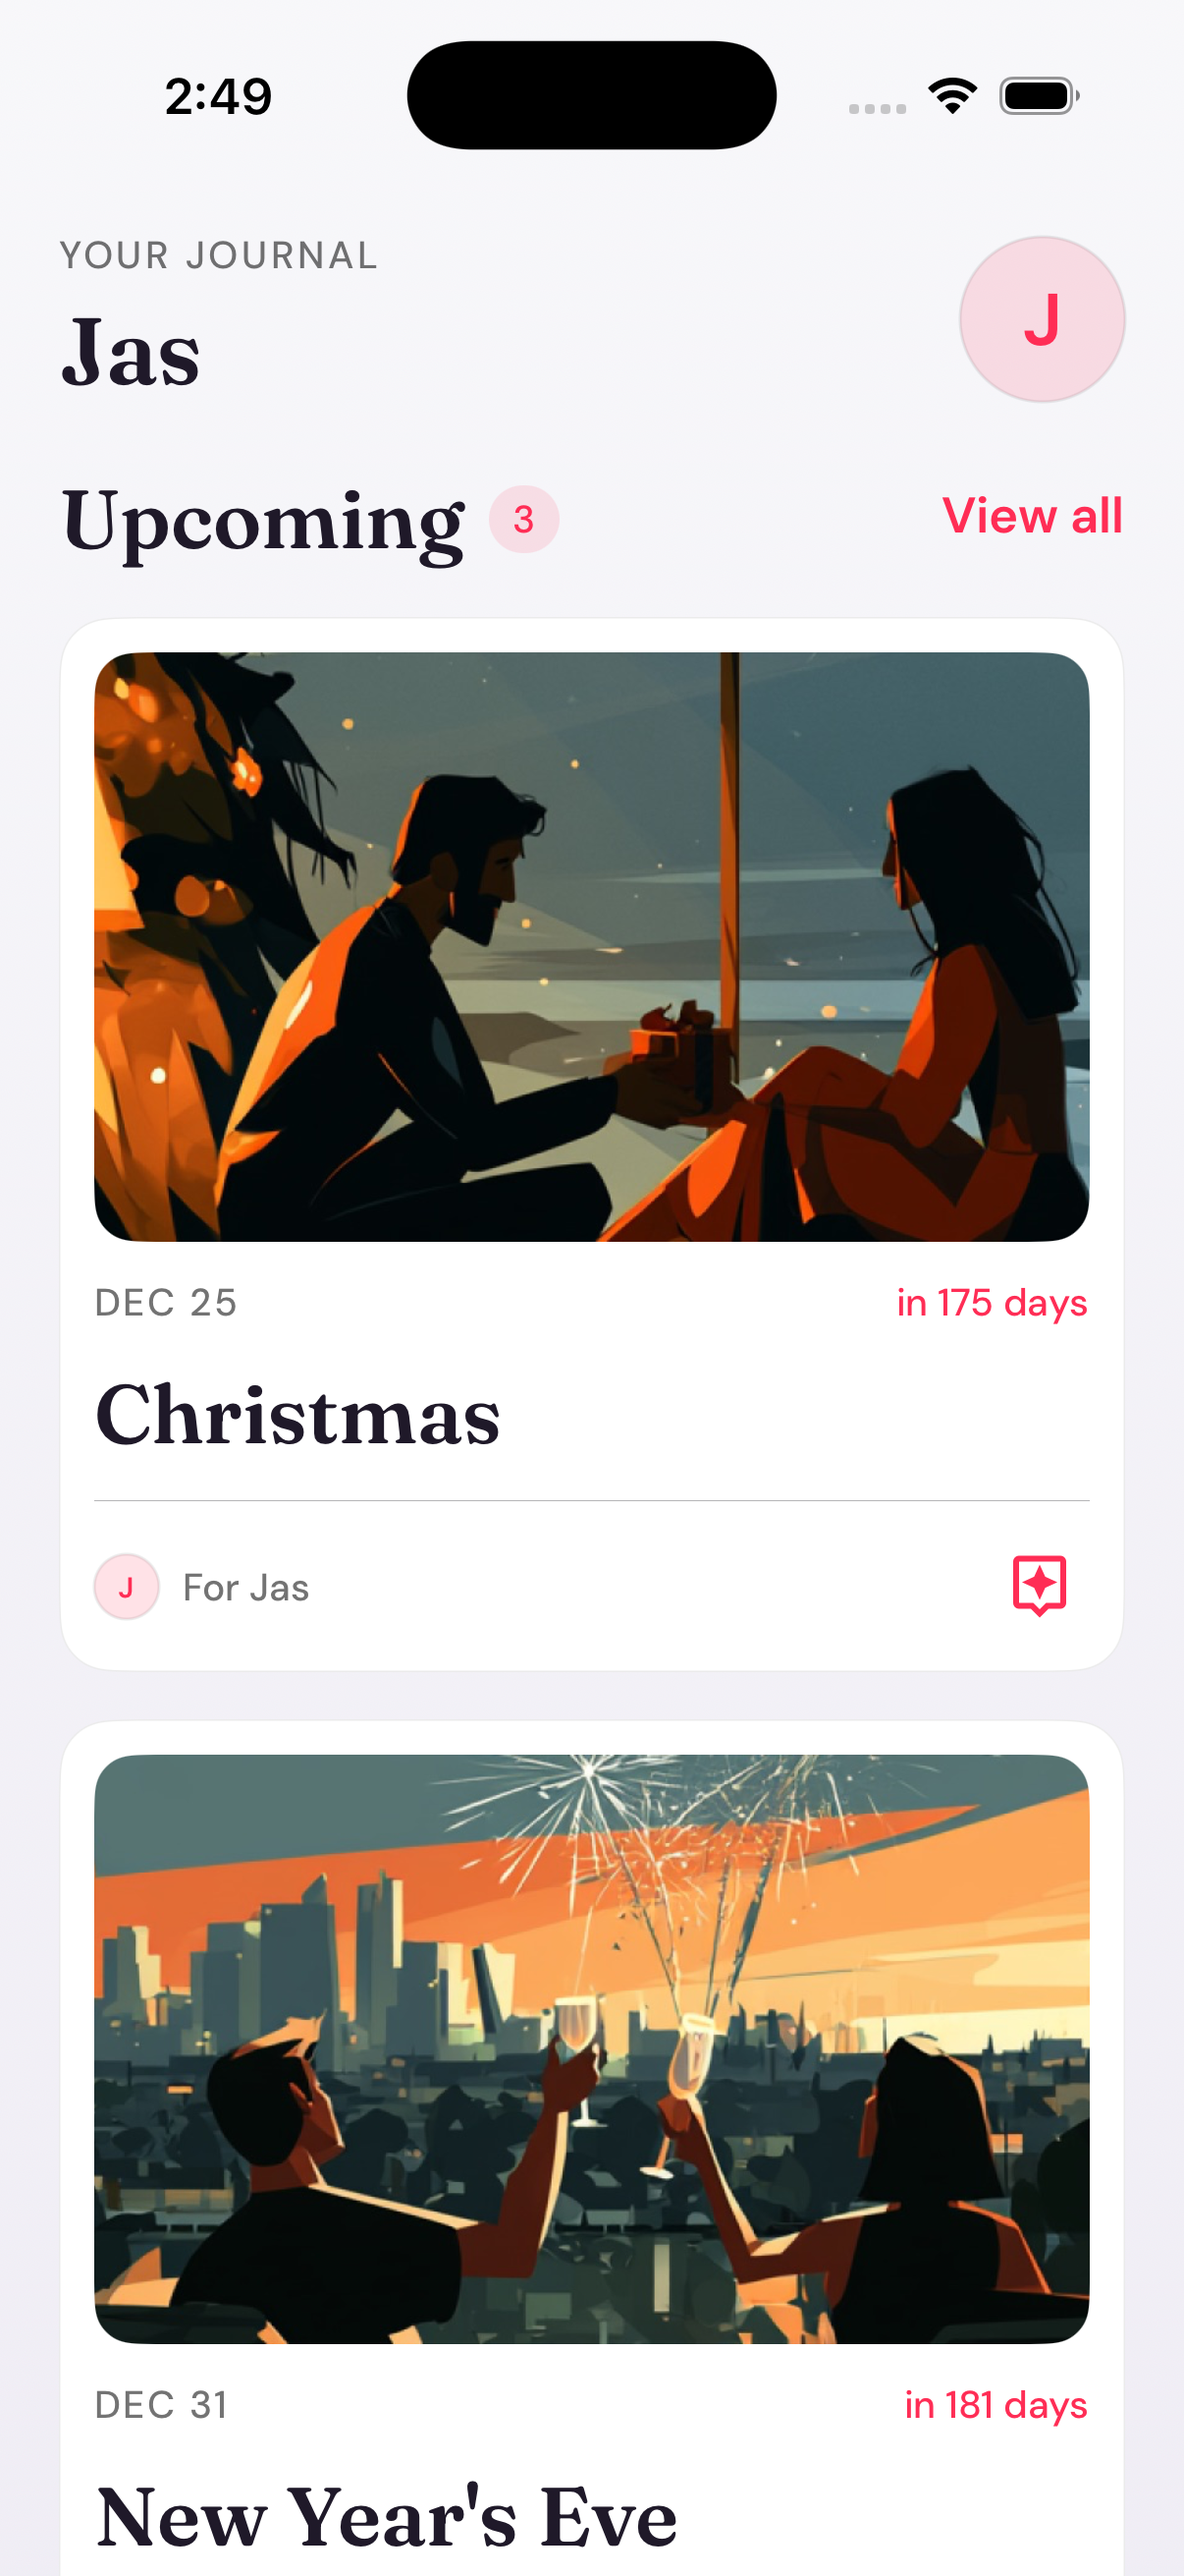
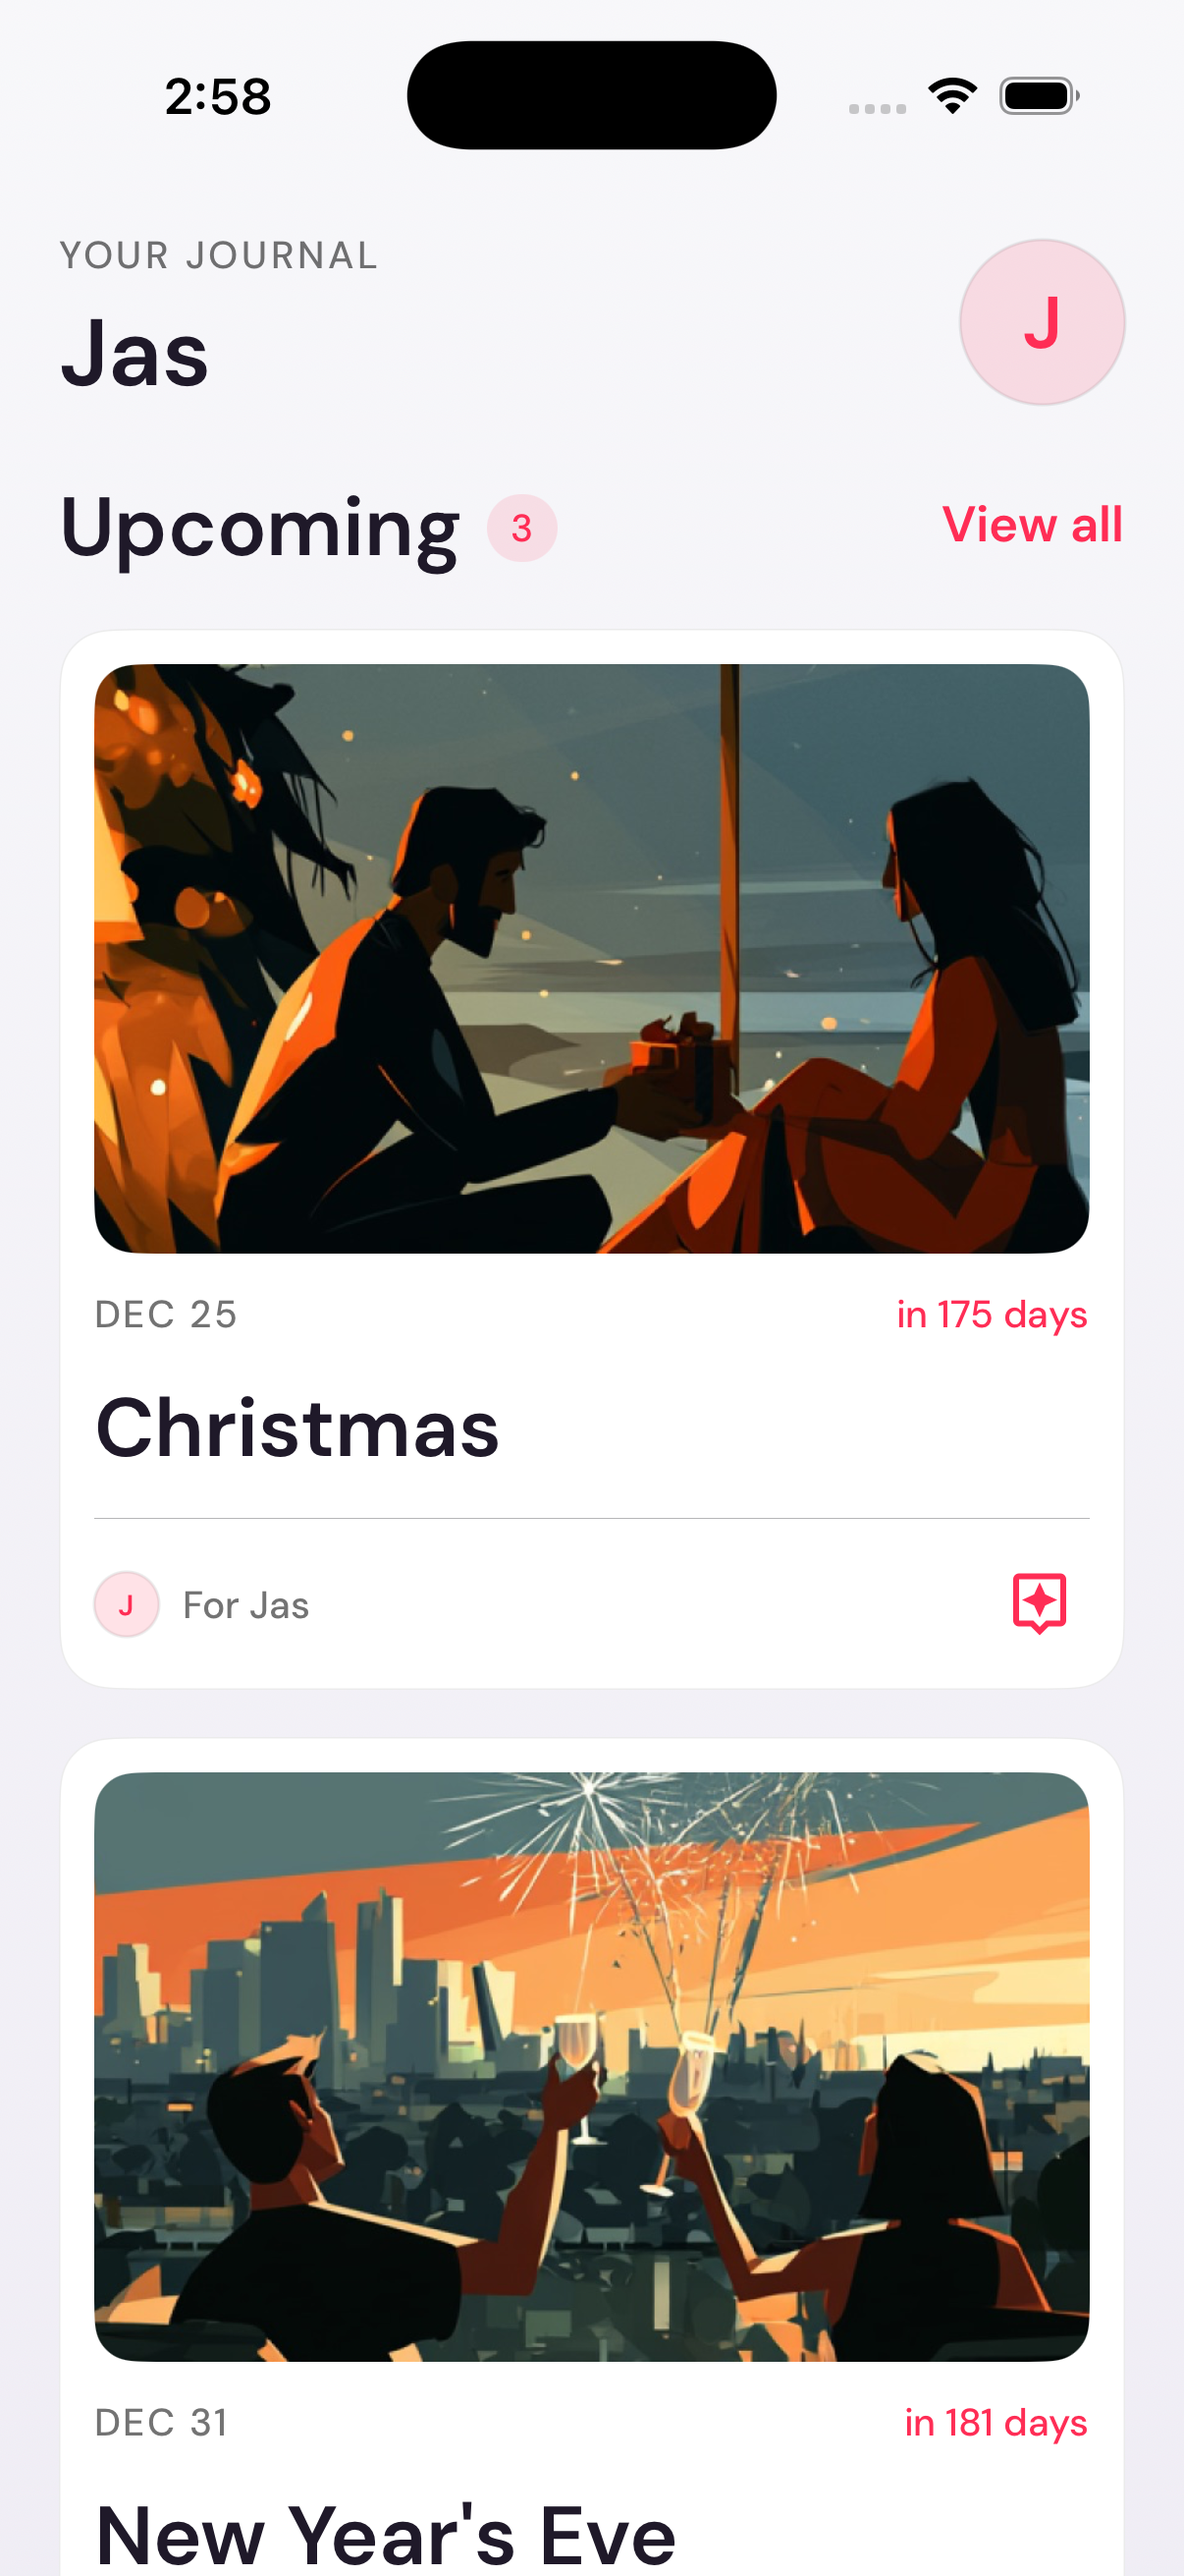
Point the PR screenshot back at the Journal and re-shoot it after the font merge
Merged origin/main, which brought in the DM Sans migration that landed while
this branch was open. The token names the Journal uses are unchanged, so
nothing broke, but every heading now resolves to a DM Sans cut instead of
Fraunces — the screen genuinely looks different from the image captured before
the merge, so the screenshot was retaken to show it as it actually renders.

Repointed the screenshot test's navigation slot at the journal harness. The
font migration had aimed it at its own login harness, which is the expected
outcome of two branches sharing one single-target slot; the merge resolves to
whichever landed last, and this branch needs it back. Both waits assert, so a
run that lands on the wrong screen fails rather than shipping a useless image.

Moved the count badge's write-up out of the already-merged Journal redesign
entry and into its own step, since it ships as a separate change, and numbered
it around the font work that took the next number while this was in flight.

diff --git a/Knot/iOS/KnotUITests/PRScreenshotTests.swift b/Knot/iOS/KnotUITests/PRScreenshotTests.swift
@@ -24,19 +24,12 @@ final class PRScreenshotTests: XCTestCase {
         let app = XCUIApplication()
 
         // >>> NAVIGATE TO THE CHANGED SCREEN HERE <<<
-        // The change is a typography swap — Fraunces is gone and every heading
-        // token now resolves to a DM Sans cut. Login is the screen to capture:
-        // its "Create Account" title is `sectionHeader`, the most-used of the
-        // three tokens backed by `DMSans-Light.ttf` — the one face here that
-        // was hand-instanced from the variable font rather than shipped by
-        // Google, so it is the one needing proof it *renders* and not merely
-        // registers (the other four cuts already shipped on main).
-        //
-        // Sign-in shows two Light tokens and was tried first, but it runs
-        // `PhotoGridSection`'s continuously-redrawing 40-tile grid; on every
-        // Full-plan run the runner killed the app at teardown, taking a
-        // neighbouring UI test with it. Login is static and costs nothing.
-        app.launchArguments += ["-uiTestScreenshot", "login"]
+        // The change adds a count badge beside the Journal tab's "Upcoming"
+        // title. The real `ForYouView` sits behind an authenticated session and
+        // a live milestone fetch, which a cold screenshot launch can't reach —
+        // so render the same header and card feed via the DEBUG harness, whose
+        // seeded entries give the badge a real number to show.
+        app.launchArguments += ["-uiTestScreenshot", "journal"]
         app.launch()
 
         // Give the view a moment to render (fonts, gradient, async layout).
@@ -52,17 +45,22 @@ final class PRScreenshotTests: XCTestCase {
         // "Apple Account Verification" iCloud prompt) so it doesn't cover the shot.
         dismissSystemAlerts()
 
-        // Wait on the title — the `sectionHeader` (DMSans-Light 28) evidence.
+        // Wait on the header eyebrow and the "Upcoming" title the badge sits
+        // beside.
         //
-        // This ASSERTS rather than discards its result. A discarded
+        // These ASSERT rather than discard their result. A discarded
         // `waitForExistence` lets the test pass while the target screen never
         // appeared — and `app.screenshot()` then captures whatever is on
         // screen (a stale snapshot, a system alert), so a wrong image ships
         // with a green test. Failing here is the only thing that makes the
         // captured screenshot trustworthy.
         XCTAssertTrue(
-            app.staticTexts["Create Account"].waitForExistence(timeout: 10),
-            "Login harness never rendered — the captured screenshot would not show the change"
+            app.staticTexts["YOUR JOURNAL"].waitForExistence(timeout: 10),
+            "Journal harness never rendered — the captured screenshot would not show the change"
+        )
+        XCTAssertTrue(
+            app.staticTexts["Upcoming"].waitForExistence(timeout: 5),
+            "The Upcoming header the count badge sits beside never rendered"
         )
 
         // Let the screen settle so the shot isn't caught mid-transition.

diff --git a/Knot/memory-bank/progress.md b/Knot/memory-bank/progress.md
@@ -7638,20 +7638,6 @@ only for `critical`/`soon`, via `Theme.statusError` / `Theme.statusWarning` — 
 `.orange`). This also keeps `ForYouViewModel.urgencyLevel` a live, consumed API rather than
 leaving it and its 12 tests behind as dead code.
 
-**The "Upcoming" header carries a count badge.** `KnotBadge("\(milestones.count)",
-variant: .accent, size: .sm)` beside the title, so the user can see how many upcoming
-milestones they have without counting cards. Unlike the per-card "N suggestions" the mock
-showed, this count is free — `viewModel.milestones` is the same array the feed below renders,
-so the badge cannot disagree with what is on screen and no request is made for it. Two things
-were wrong on the first attempt and only visible in a screenshot: `.secondary` fills with
-`Theme.surfaceElevated` (0.96 grey) on a 0.97 background, so the pill was invisible and the
-number read as stray text — `.accent` gives it the same tinted-pill treatment as
-`PartnerInitialAvatar` and the countdown; and `.firstTextBaseline` against a 28pt Fraunces
-title dropped the small pill below the title's midline, so the inner `HStack` centres instead.
-The title and badge are one VoiceOver element labelled by the pure, tested
-`ForYouView.upcomingAccessibilityLabel(count:)` ("Upcoming, 1 milestone" / "…, 3 milestones") —
-a badge announcing a bare "3" after "Upcoming" says nothing on its own.
-
 **A `.fill` image pushed the whole screen sideways.** The artwork was first written as
 `Image(name).resizable().aspectRatio(contentMode: .fill)` with `.frame(maxWidth: .infinity)` /
 `.frame(height: 200)` / `.clipShape` after it. A `scaledToFill` image reports a size *larger
@@ -7815,6 +7801,61 @@ A harness key was needed at all because both screens sit on the unauthenticated 
 - **Files created:** `iOS/Knot/Resources/Fonts/DMSans-Light.ttf`, plus the `login` harness key and the `Theme.Typography.onboardingHeaderCompact` token noted above.
 - **Step 19.31 landed on `main` while this was in flight and hardened the same failure from the other side.** Its `PRScreenshotTests` rework traced runner crashes to `dismissSystemAlerts()` polling six labels against SpringBoard unconditionally — each miss costing a wait plus a full accessibility-hierarchy snapshot for XCTest's triage. So the sign-in crashes here were probably that burst *plus* an expensive screen, not the photo grid alone. The merge takes main's version of the helper and the settle-before-query ordering; the `login` target is kept regardless, because a screenshot harness should be cheap to render whether or not the runner is fragile that week.
 - A screenshot run crashed the UI test with `signal kill` once, and the capture script failed once more with no `.xcresult` at all while the same test passed on a direct `test-without-building` run — both simulator flakes, not code faults. `xcrun simctl shutdown all` and a re-run captured cleanly each time.
+
+---
+
+### Step 19.33 ✅ Journal — Show How Many Upcoming Milestones There Are
+**Date:** 2026-09-05
+**Status:** Complete
+
+*(Numbered 19.33: Step 19.32 landed on `main` while this branch was open.)*
+
+**Goal:** The Journal's "Upcoming" section gave no sense of scale — the user had to scroll and
+count cards to know how many milestones were coming up.
+
+**What changed:** a `KnotBadge("\(viewModel.milestones.count)", variant: .accent, size: .sm)`
+beside the "Upcoming" title in `ForYouView.upcomingHeader`, mirrored in
+`JournalScreenshotHarnessView` so the captured screenshot shows the badge with a real number.
+
+**The count is free.** It reads `viewModel.milestones` — the *same array* the feed below
+renders — so no request is made for it and the badge cannot disagree with what is on screen.
+That is the difference between this and the per-card "N suggestions" Step 19.31 deliberately
+omitted: that one has no batch endpoint behind it and would cost one
+`GET /by-milestone/{id}` per card.
+
+**Two things were wrong on the first attempt, and only the screenshot showed them:**
+- **`.secondary` was invisible.** That variant fills with `Theme.surfaceElevated` — rgb 0.96 —
+  against a 0.97 background, so the pill vanished and the number read as stray text floating
+  beside the title. `.accent` gives it the tinted-pill treatment already carried by
+  `PartnerInitialAvatar` and the per-card countdown. **A badge variant is only "quiet" if it
+  has contrast to be quiet against.**
+- **`.firstTextBaseline` sat the pill too low.** Against a 28pt title, aligning baselines drops
+  a 13pt pill below the title's midline. The inner `HStack` centres instead.
+
+**Accessibility:** the title and badge are one element, labelled by the pure
+`ForYouView.upcomingAccessibilityLabel(count:)` ("Upcoming, 1 milestone" / "Upcoming, 3
+milestones"). A badge announcing a bare "3" after "Upcoming" says nothing on its own. The
+singular/plural rule is unit-tested without rendering the screen.
+
+**Files modified:** `iOS/Knot/Features/ForYou/ForYouView.swift`,
+`iOS/Knot/App/UITestScreenshotHarness.swift`, `iOS/KnotUITests/PRScreenshotTests.swift`
+(navigation slot repointed at `journal`), `iOS/KnotTests/MilestoneCardTests.swift`,
+`docs/pr-screenshots/worktree-feat-journal-tab-redesign.png`.
+
+**Tests:** Unit plan **447 passed** (445 after merging `main`'s Step 19.32 font work + 2 new).
+Full plan **447 unit + 4 UI passed**, with `KnotUITests/testLaunchPerformance` skipped for the
+reason recorded in Step 19.31.
+
+**Notes:**
+- **Merged `origin/main` first**, which brought in Step 19.32 — Fraunces is gone and every
+  heading token now resolves to a DM Sans cut. The token *names* this screen uses
+  (`sectionHeaderSemibold`, `onboardingHeader`, `label`, `cta`) are unchanged, so nothing broke,
+  but the Journal now renders in DM Sans rather than the serif the original screenshot showed.
+  The PR image was re-captured after the merge so it shows the screen as it actually looks.
+- Step 19.32 independently adopted this branch's `dismissSystemAlerts()` and asserting-wait
+  fixes, and repointed the screenshot slot at its own `login` harness; this change points it
+  back at `journal`. **That slot is a shared single-target resource** — two concurrent branches
+  will always contend for it, and the merge resolves to whichever landed last.
 
 ---
 
